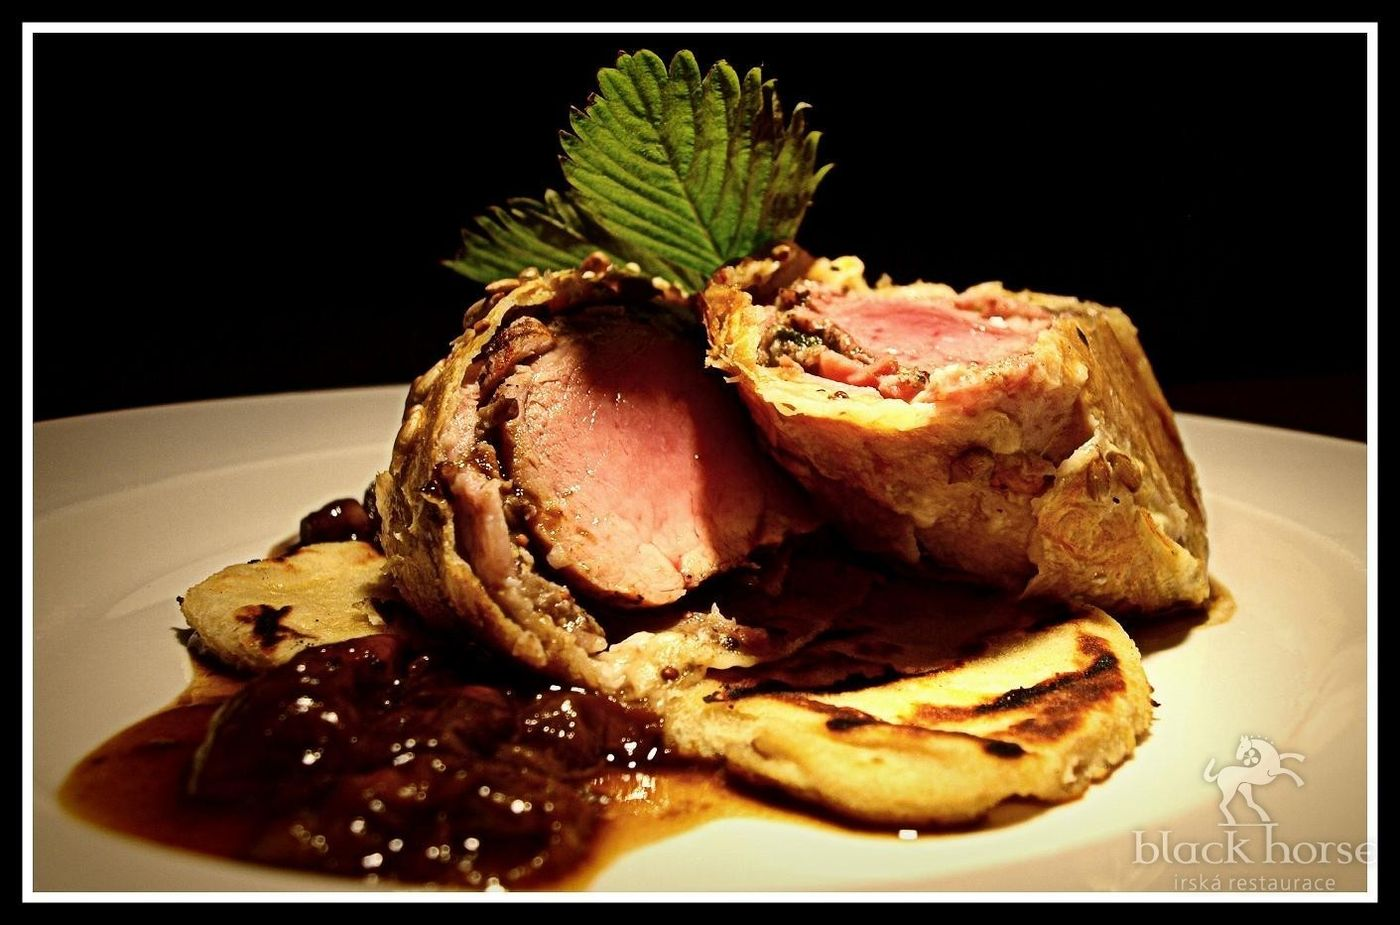
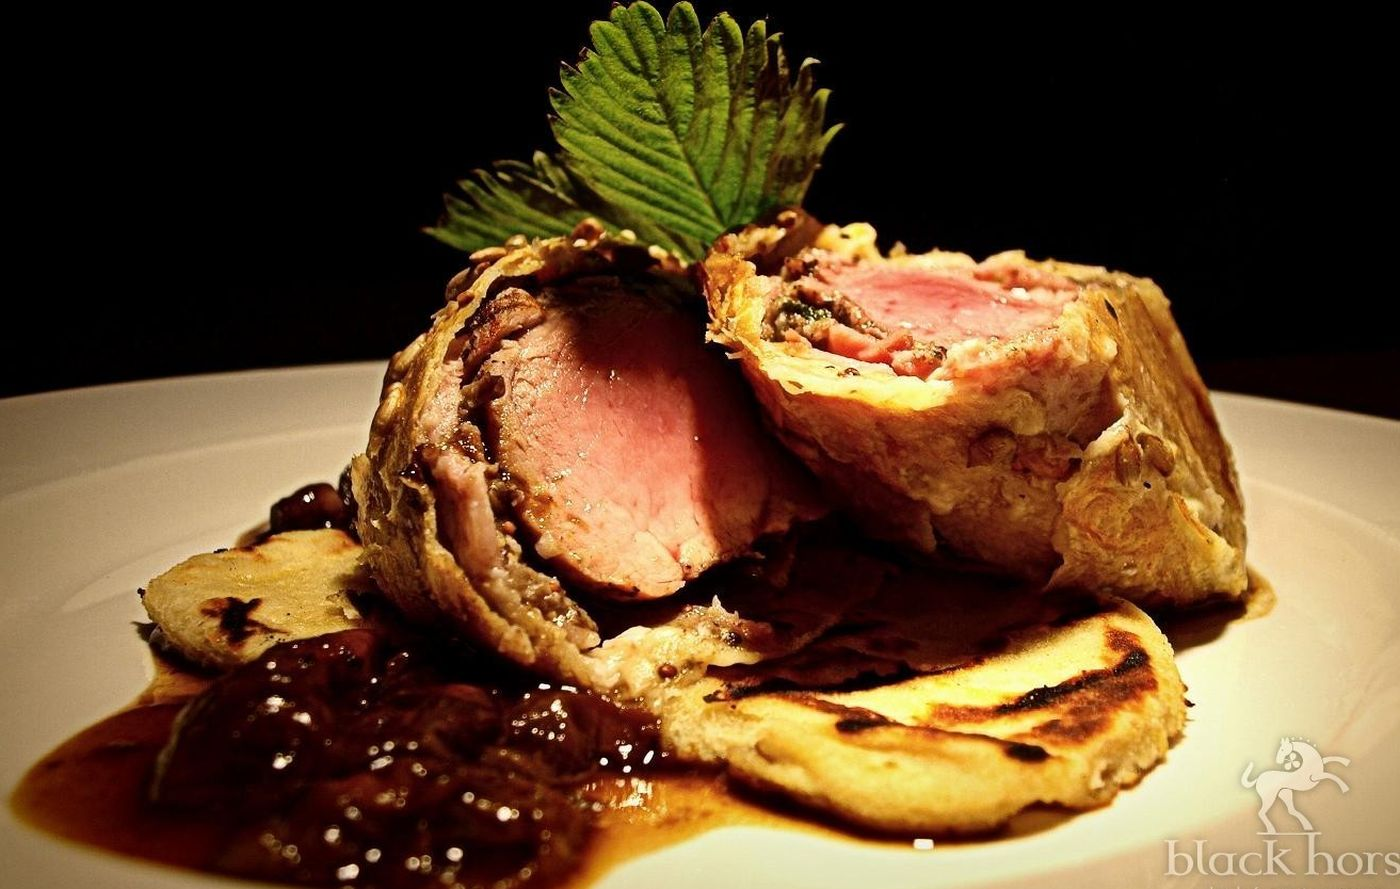
desktop: labels above headings, pint and dish strip sized to the viewport, photo frame cropped

diff --git a/index.html b/index.html
@@ -33,7 +33,7 @@ a{color:inherit}
 a:focus-visible,button:focus-visible{outline:2px solid var(--brass);outline-offset:3px}
 .wrap{width:min(1240px,100% - 48px);margin-inline:auto}
 .label{font:500 12px/1.4 var(--mono);letter-spacing:.14em;text-transform:uppercase;color:var(--muted)}
-.grid{display:grid;grid-template-columns:minmax(0,4fr) minmax(0,8fr);gap:48px}
+.grid{display:grid;grid-template-columns:minmax(0,1fr);gap:18px;max-width:1080px}
 .grid>*{min-width:0}
 section{padding:120px 0;border-top:1px solid var(--line)}
 
@@ -52,17 +52,18 @@ section{padding:120px 0;border-top:1px solid var(--line)}
 .hero-img{position:absolute;inset:0;width:100%;height:100%;object-fit:cover;transform-origin:50% 60%}
 .hero-shade{position:absolute;inset:0;background:linear-gradient(180deg,rgba(13,11,9,.55) 0%,rgba(13,11,9,.15) 35%,rgba(13,11,9,.88) 100%)}
 .hero .wrap{position:relative;height:100%;display:flex;flex-direction:column;justify-content:flex-end;padding-bottom:9vh}
-.hero h1{font:400 clamp(52px,8.6vw,138px)/.92 var(--serif);letter-spacing:-.015em;max-width:12ch}
+.hero h1{font:400 clamp(46px,min(8.6vw,14vh),138px)/.92 var(--serif);letter-spacing:-.015em;max-width:15ch}
 .hero h1 em{font-style:italic;color:var(--foam)}
-.lede{display:grid;grid-template-columns:minmax(0,4fr) minmax(0,8fr);gap:48px;margin-top:40px;align-items:end}
+.lede{display:flex;flex-direction:column;gap:12px;margin-top:26px;max-width:640px}
 .lede p{max-width:46ch;color:var(--foam);font-size:19px}
 .lede p.label{font-size:12px;color:var(--muted)}
 
 /* pint */
 .pour{padding:0;border:0;min-height:100vh;display:flex;align-items:center;background:var(--porter)}
-.pour .grid{align-items:center;padding:100px 0}
-.pint{width:min(300px,62vw);justify-self:center}
-.pint svg{width:100%;height:auto;overflow:visible}
+.pour-grid{display:grid;grid-template-columns:minmax(0,5fr) minmax(0,7fr);gap:48px;align-items:center;padding:6vh 0}
+.pour-grid>*{min-width:0}
+.pint{justify-self:center}
+.pint svg{display:block;height:min(76vh,560px);width:auto;max-width:100%;overflow:visible}
 .pour h2{font:400 clamp(64px,10vw,160px)/.9 var(--serif);font-style:italic;letter-spacing:-.02em}
 .pour p{font-size:21px;line-height:1.55;max-width:34ch;margin-top:28px;color:var(--foam)}
 .pour .label{margin-bottom:18px}
@@ -71,7 +72,15 @@ section{padding:120px 0;border-top:1px solid var(--line)}
 .kitchen{padding:120px 0 0;overflow:hidden}
 .kitchen .intro h2{font:400 clamp(40px,5vw,72px)/1 var(--serif)}
 .kitchen .intro p{margin-top:22px;max-width:52ch;color:var(--foam)}
-.track{display:flex;gap:28px;padding:64px 24px 120px max(24px,calc((100vw - 1240px)/2));overflow-x:auto;scroll-snap-type:x mandatory;width:100%}
+.track-pin{display:flex;align-items:center}
+.track{display:flex;gap:28px;padding:56px 24px 96px max(24px,calc((100vw - 1240px)/2));overflow-x:auto;scroll-snap-type:x mandatory;width:100%}
+@media (min-width:861px){
+  html.fx .track-pin{height:100vh}
+  html.fx .track{padding:0 24px 0 max(24px,calc((100vw - 1240px)/2))}
+  html.fx .dish{width:calc(min(54vh,430px)*4/3)}
+  html.fx .dish.tall{width:calc(min(54vh,430px)*311/599)}
+  html.fx .dish figcaption{margin-top:12px;font-size:15px}
+}
 .dish{flex:0 0 auto;width:min(520px,78vw);scroll-snap-align:start}
 .dish.tall{width:min(300px,52vw)}
 .dish img{width:100%;aspect-ratio:4/3;object-fit:cover;border-radius:2px;filter:saturate(.92) contrast(1.04)}
@@ -98,6 +107,7 @@ html:not(.fx) .row{flex-wrap:wrap;white-space:normal;gap:8px 40px}
 
 /* history */
 .hist figure{border-radius:2px}
+.hist figure{max-width:720px}
 .hist .frame{overflow:hidden;aspect-ratio:652/396}
 .hist img{width:100%;height:100%;object-fit:cover;filter:sepia(.35) contrast(1.05)}
 html.fx .hist img{height:124%;margin-top:-12%}
@@ -118,7 +128,7 @@ html.fx .hist img{height:124%;margin-top:-12%}
 .contact dl{display:grid;grid-template-columns:minmax(0,1fr) minmax(0,1fr);gap:28px 48px;margin-top:56px}
 .contact dl>*{min-width:0}
 .contact dd{margin-top:6px;font-size:18px}
-.hours{width:100%;border-collapse:collapse;margin-top:10px;font:400 16px/1.4 var(--mono)}
+.hours{width:100%;max-width:560px;border-collapse:collapse;margin-top:10px;font:400 16px/1.4 var(--mono)}
 .hours td{padding:9px 0;border-bottom:1px solid var(--line)}
 .hours td:last-child{text-align:right}
 .hours tr.dnes td{color:var(--brass)}
@@ -130,8 +140,8 @@ footer{padding:40px 0 56px;border-top:1px solid var(--line);font:400 13px/1.6 va
   section{padding:84px 0}
   .top nav a:not(.call){display:none}
   .terrace .photos,.quotes,.contact dl{grid-template-columns:minmax(0,1fr)}
-  .pour .grid{padding:40px 0;gap:18px}
-  .pint{width:min(150px,38vw)}
+  .pour-grid{grid-template-columns:minmax(0,1fr);padding:32px 0;gap:18px}
+  .pint svg{height:min(40vh,300px)}
   .pour p{font-size:18px;margin-top:16px}
   .track{padding-left:24px}
 }
@@ -186,7 +196,7 @@ footer{padding:40px 0 56px;border-top:1px solid var(--line);font:400 13px/1.6 va
 </section>
 
 <section class="pour" aria-label="Guinness">
-  <div class="wrap grid">
+  <div class="wrap pour-grid">
     <div class="pint" aria-hidden="true">
       <svg viewBox="0 0 240 480">
         <defs>
@@ -220,13 +230,13 @@ footer{padding:40px 0 56px;border-top:1px solid var(--line);font:400 13px/1.6 va
       <p>Pomalu dušená masa, grilované steaky, jehněčí, ryby a&nbsp;sezónní speciality. Co je čerstvé, během dne dojde.</p>
     </div>
   </div>
-  <div class="track" data-scroller>
+  <div class="track-pin" data-scroller><div class="track" data-scroller>
     <figure class="dish"><img src="img/jidlo1.jpg" width="1400" height="925" loading="lazy" alt="Hovězí z&nbsp;kuchyně Black Horse"><figcaption><span class="label">Hovězí</span>Irské hovězí od vyzkoušených dodavatelů.</figcaption></figure>
     <figure class="dish"><img src="img/jidlo3.jpg" width="799" height="595" loading="lazy" alt="Pečená ryba na pánvi"><figcaption><span class="label">Ryby</span>Některé druhy ryb dovážíme čerstvé — hned druhý den po vylovení.</figcaption></figure>
     <figure class="dish tall"><img src="img/udirna.jpg" width="311" height="599" loading="lazy" alt="Ryby v&nbsp;domácí udírně"><figcaption><span class="label">Udírna</span>Z&nbsp;domácí udírny.</figcaption></figure>
     <figure class="dish"><img src="img/jehneci.jpg" width="1400" height="926" loading="lazy" alt="Pomalu dušená jehněčí kolínka"><figcaption><span class="label">Jehněčí</span>Pomalu dušená masa a&nbsp;jehněčí.</figcaption></figure>
     <figure class="dish"><img src="img/klepytko.jpg" width="800" height="429" loading="lazy" alt="Mořské plody na talíři"><figcaption><span class="label">Moře</span>Čerstvé ryby, ústřice a&nbsp;mořské plody, jak je mají rádi v&nbsp;Irsku.</figcaption></figure>
-  </div>
+  </div></div>
 </section>
 
 <section class="shelf" id="whiskey" aria-label="Irská whiskey">
@@ -329,7 +339,7 @@ window.addEventListener('DOMContentLoaded', function () {
   // 2 — the pint pours with the scroll: tan surge, settles black, the head forms last
   gsap.timeline({ scrollTrigger: { trigger: '.pour', start: 'top top', end: '+=160%', scrub: .6, pin: true } })
     .fromTo('#liquid', { y: 430 }, { y: 0, ease: 'power1.inOut', duration: 1 }, 0)
-    .fromTo('#body', { fill: '#9b7246' }, { fill: '#150c07', ease: 'power2.in', duration: .9 }, .25)
+    .fromTo('#body', { fill: '#9b7246' }, { fill: '#150c07', ease: 'power1.inOut', duration: .5 }, .3)
     .fromTo('#head', { scaleY: .15, transformOrigin: '50% 100%' }, { scaleY: 1, duration: .45 }, .7)
     .from('.pour-copy > *', { y: 40, opacity: 0, stagger: .12, duration: .4 }, .1);
 
@@ -340,7 +350,7 @@ window.addEventListener('DOMContentLoaded', function () {
     var dist = function () { return track.scrollWidth - window.innerWidth; };
     track.style.overflow = 'visible'; track.style.width = 'max-content';
     gsap.to(track, { x: function () { return -dist(); }, ease: 'none',
-      scrollTrigger: { trigger: '.kitchen', start: 'top top', end: function () { return '+=' + dist(); }, scrub: .5, pin: true, invalidateOnRefresh: true } });
+      scrollTrigger: { trigger: '.track-pin', start: 'top top', end: function () { return '+=' + dist(); }, scrub: .5, pin: true, invalidateOnRefresh: true } });
   });
 
   // 4 — the whiskey shelf: two rows slide past each other
